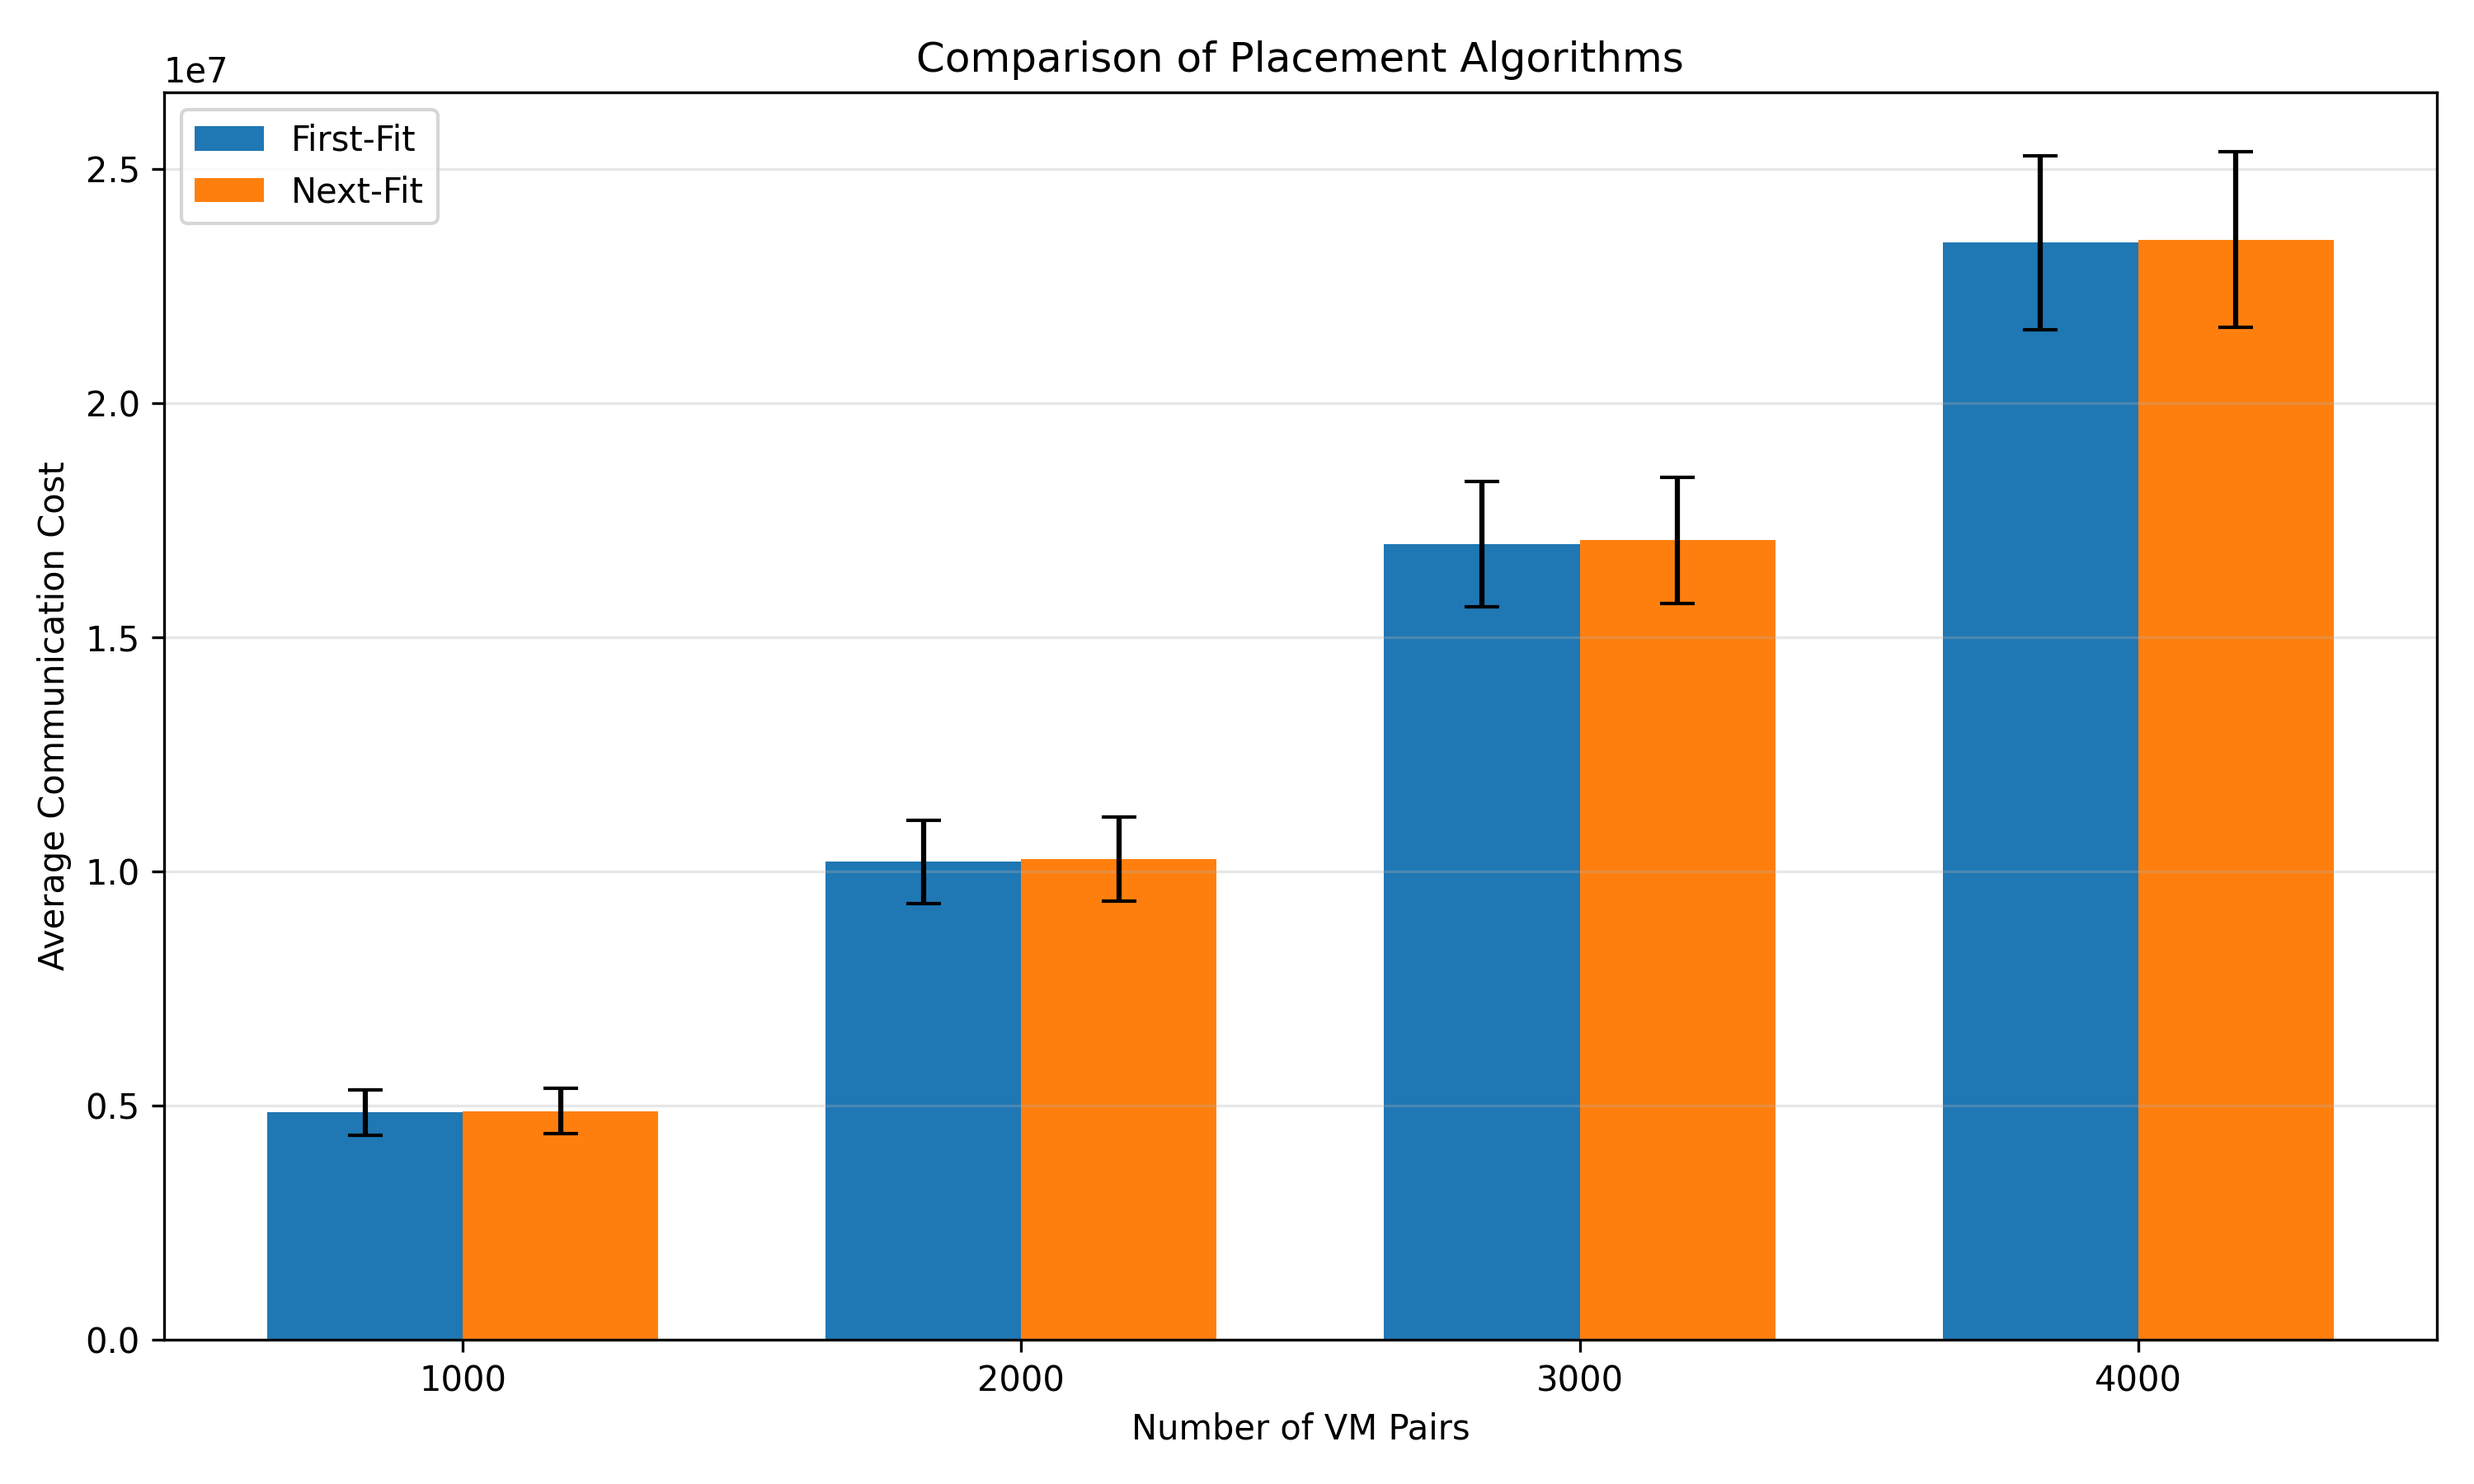
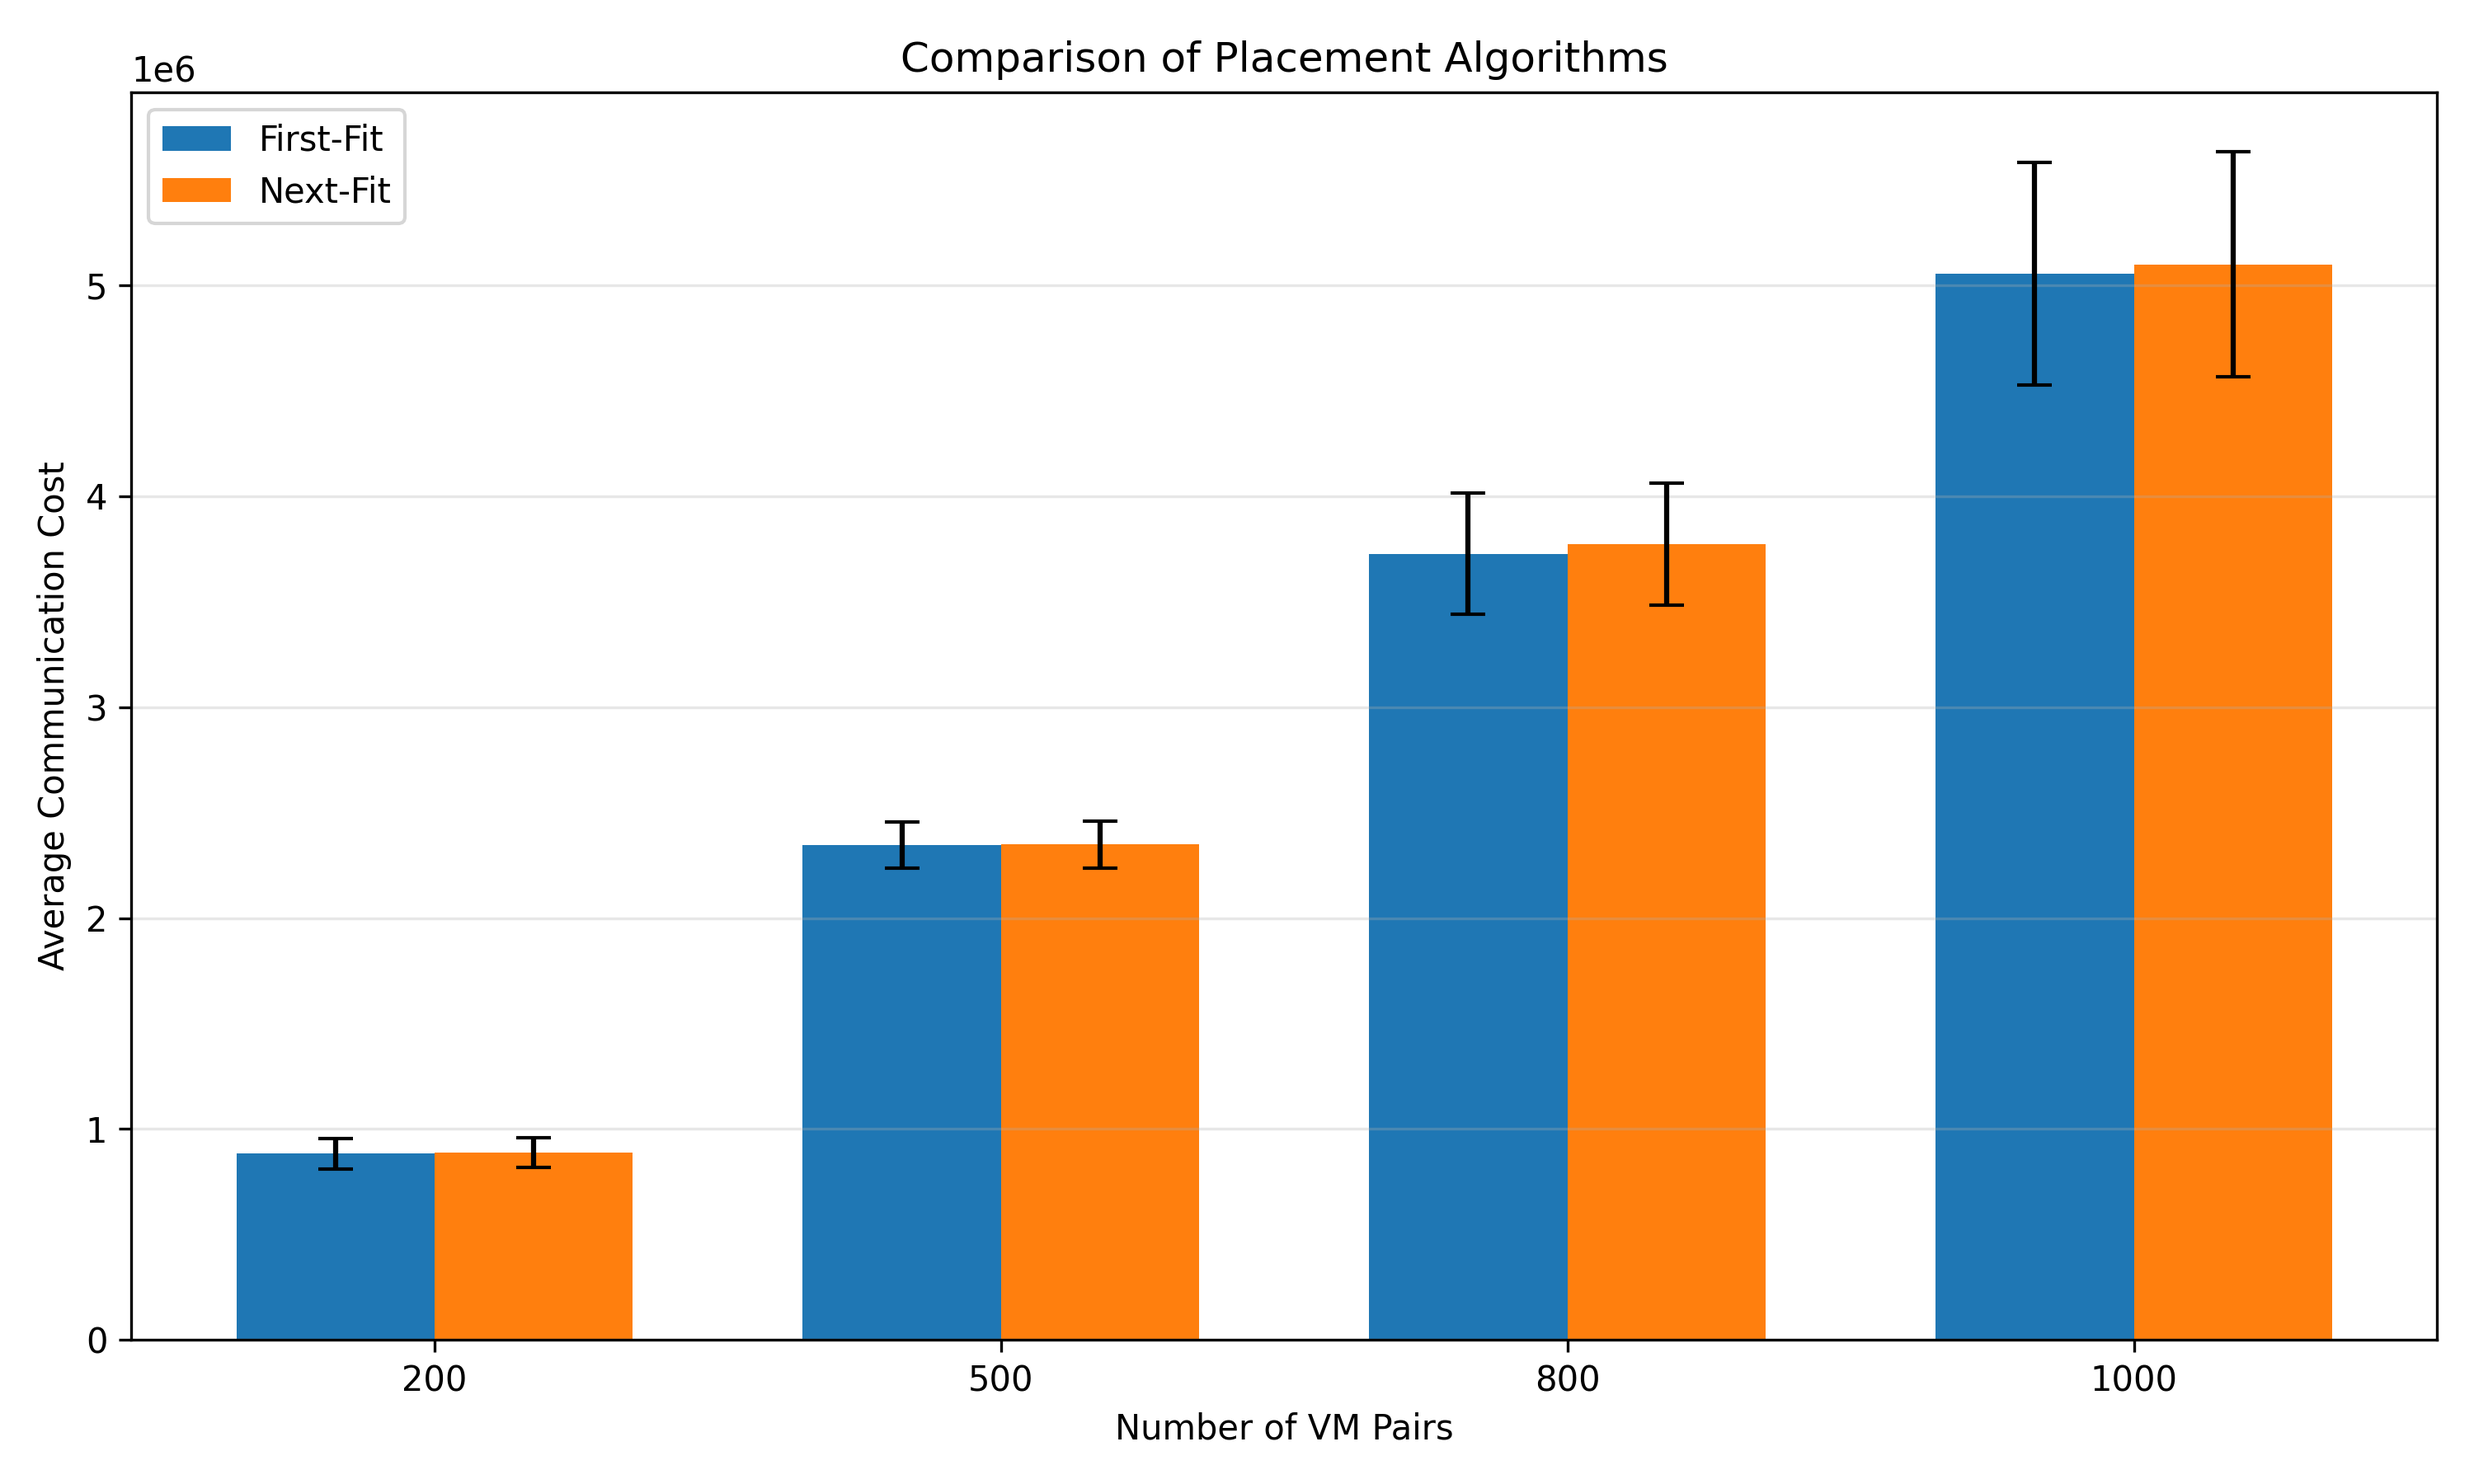
changed plot parameters

diff --git a/src/app.py b/src/app.py
@@ -14,12 +14,13 @@ class App:
         #3 VNFs, k=16, PM capacity 
         ff_results = np.empty((4,10))
         pal_results = np.empty((4,10))
+        x = [200, 500, 800, 1000]
         for i in range(4):
             for j in range(10):
-                tree = FatTree(k=16, vm_pair_count=1000 * (i + 1), vnf_capacity=3, vnf_count=3, pm_capacity=80)
+                tree = FatTree(k=16, vm_pair_count=x[i], vnf_capacity=3, vnf_count=3, pm_capacity=40)
                 tree.set_traffic_range(0, 1000)
-                ff_results[i][j]=tree.create_sized_pairs_ff_place(lower_bound=1, upper_bound=10)
-                pal_results[i][j]=tree.create_pairs_sized_pal_place(lower_bound=1, upper_bound=10)
+                ff_results[i][j]=tree.create_sized_pairs_ff_place(lower_bound=1, upper_bound=8)
+                pal_results[i][j]=tree.create_pairs_sized_pal_place(lower_bound=1, upper_bound=8)
 
         # Compute means and standard errors
         ff_means = ff_results.mean(axis=1)
@@ -38,7 +39,7 @@ class App:
         pal_ci = t_value * pal_std / np.sqrt(10)
 
         # Define x-axis labels
-        x_labels = [1000, 2000, 3000, 4000]
+        x_labels = [200, 500, 800, 1000]
         x = np.arange(len(x_labels))  # the label locations
         width = 0.35  # the width of the bars
 
@@ -73,14 +74,14 @@ class App:
         # 3 VNFs, k=16, 1000 VM pairs
         ff_results = np.empty((4,10))
         pal_results = np.empty((4,10))
-        capacities = [20, 40, 60, 80]
+        capacities = [8, 10, 15, 20]
         
         for i in range(4):
             for j in range(10):
-                tree = FatTree(k=16, vm_pair_count=1000, vnf_capacity=3, vnf_count=3, pm_capacity=capacities[i])
+                tree = FatTree(k=16, vm_pair_count=500, vnf_capacity=3, vnf_count=3, pm_capacity=capacities[i])
                 tree.set_traffic_range(0, 1000)
-                ff_results[i][j] = tree.create_sized_pairs_ff_place(lower_bound=1, upper_bound=10)
-                pal_results[i][j] = tree.create_pairs_sized_pal_place(lower_bound=1, upper_bound=10)
+                ff_results[i][j] = tree.create_sized_pairs_ff_place(lower_bound=1, upper_bound=8)
+                pal_results[i][j] = tree.create_pairs_sized_pal_place(lower_bound=1, upper_bound=8)
 
         # Compute means and standard errors
         ff_means = ff_results.mean(axis=1)
